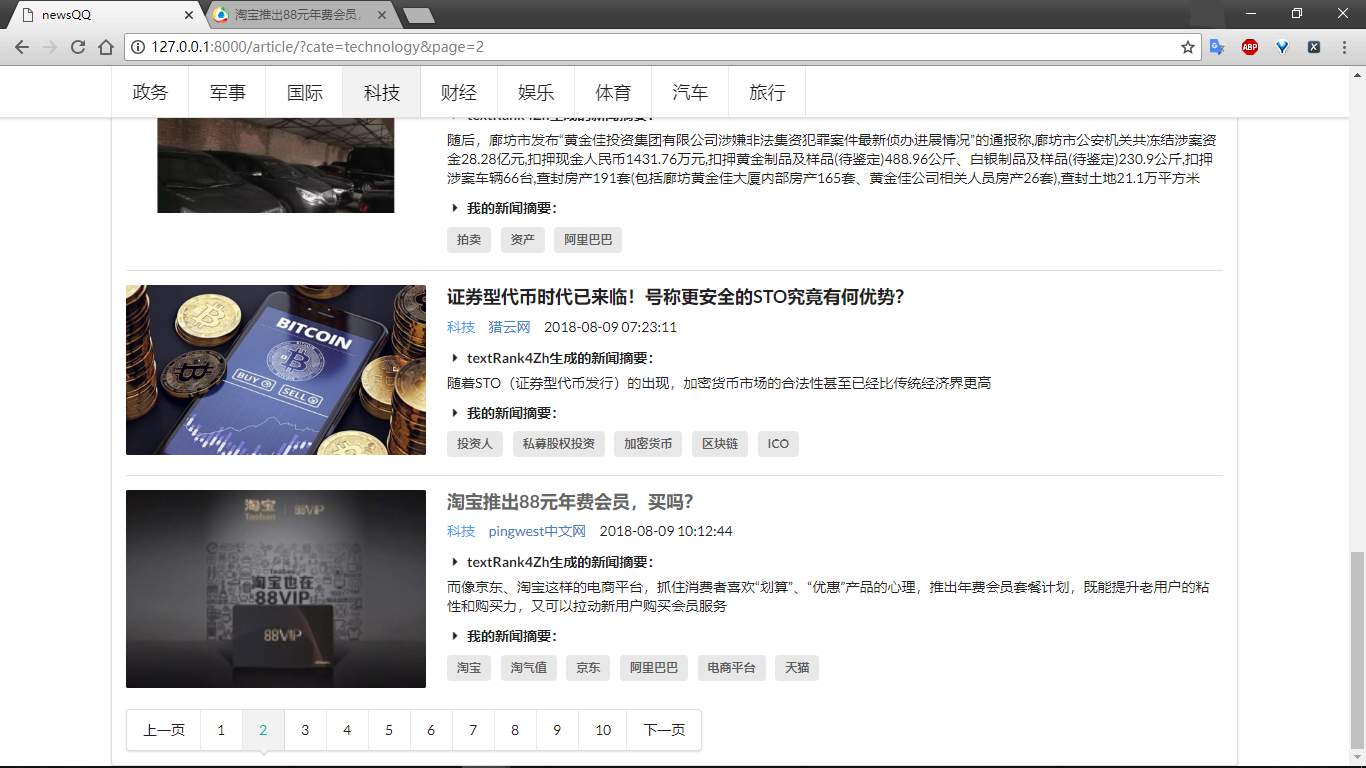
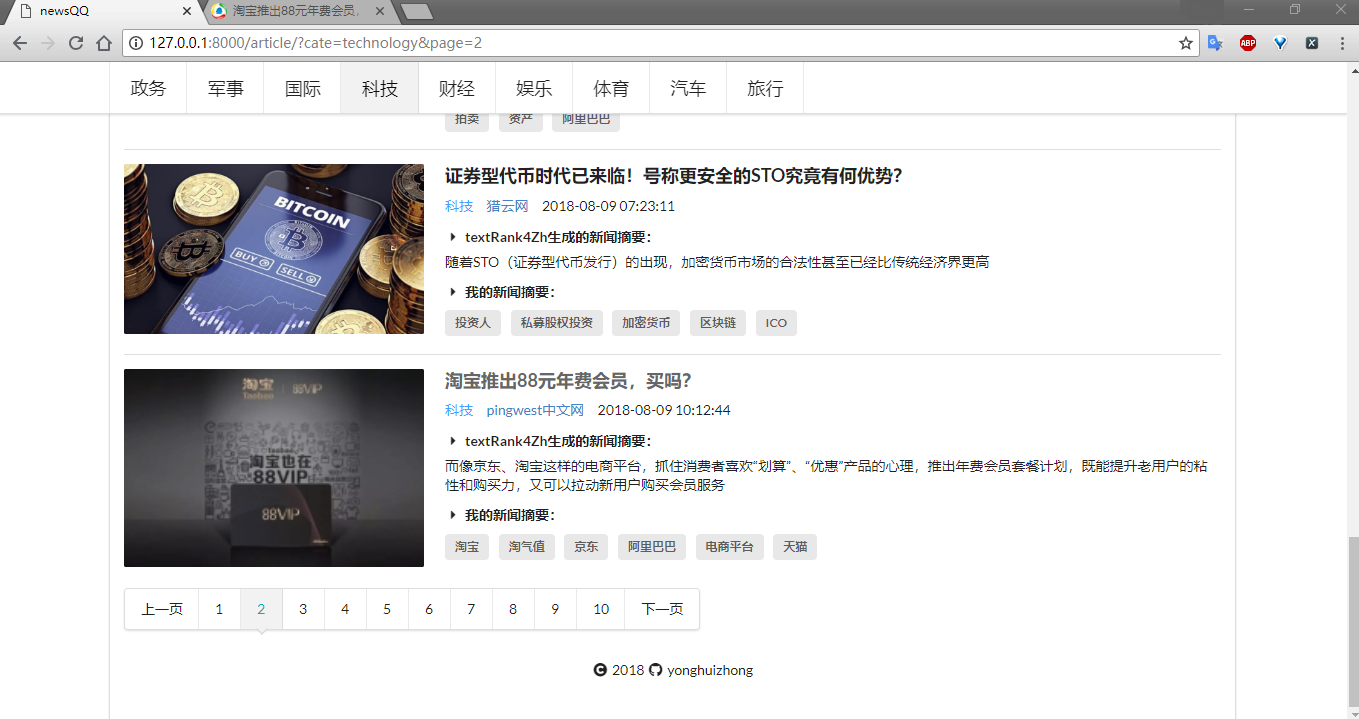
添加页脚

Changed region(s): [[0.0, 0.0, 1.0, 0.9179], [0.0, 0.7038, 1.0, 1.0]]

diff --git a/templates/article.html b/templates/article.html
@@ -20,10 +20,10 @@
                                            target="_blank">&nbsp;&nbsp;&nbsp;&nbsp;{{ item.source }}</a>
                                         <span>&nbsp;&nbsp;&nbsp;&nbsp;{{ item.time }}</span>
                                         <div class="ui list">
-{#                                            <div class="item">#}
-{#                                                <div class="header"><i class="right triangle icon"></i>新闻内容前几句话：</div>#}
-{#                                                <p>{{ item.introduce|linebreaks }}</p>#}
-{#                                            </div>#}
+                                            {#                                            <div class="item">#}
+                                            {#                                                <div class="header"><i class="right triangle icon"></i>新闻内容前几句话：</div>#}
+                                            {#                                                <p>{{ item.introduce|linebreaks }}</p>#}
+                                            {#                                            </div>#}
                                             <div class="item">
                                                 <div class="header"><i class="right triangle icon"></i>textRank4Zh生成的新闻摘要：
                                                 </div>
@@ -67,6 +67,14 @@
                         {% if article.has_next %}
                             <a class="item" id="next_page">下一页</a>
                         {% endif %}
+                    </div>
+
+                    <div class="ui center aligned container" style="margin: 30px">
+                        <div><i class="copyright icon"></i><span>2018</span>
+                            <a href="https://github.com/yonghuizhong" target="_blank" style="color: #212121">
+                                <i class="github icon"></i><span>yonghuizhong</span>
+                            </a>
+                        </div>
                     </div>
                 </div>
             </div>
